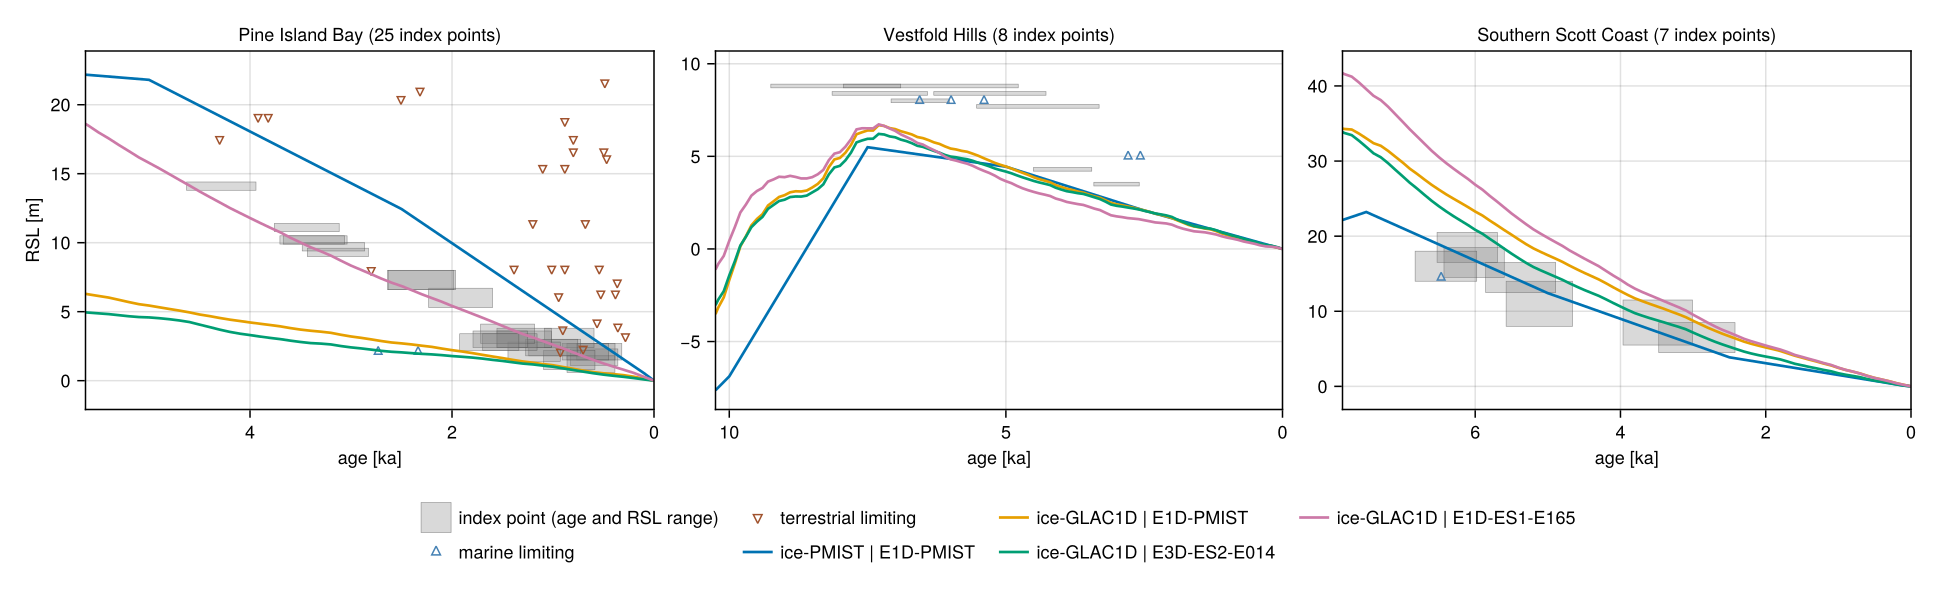
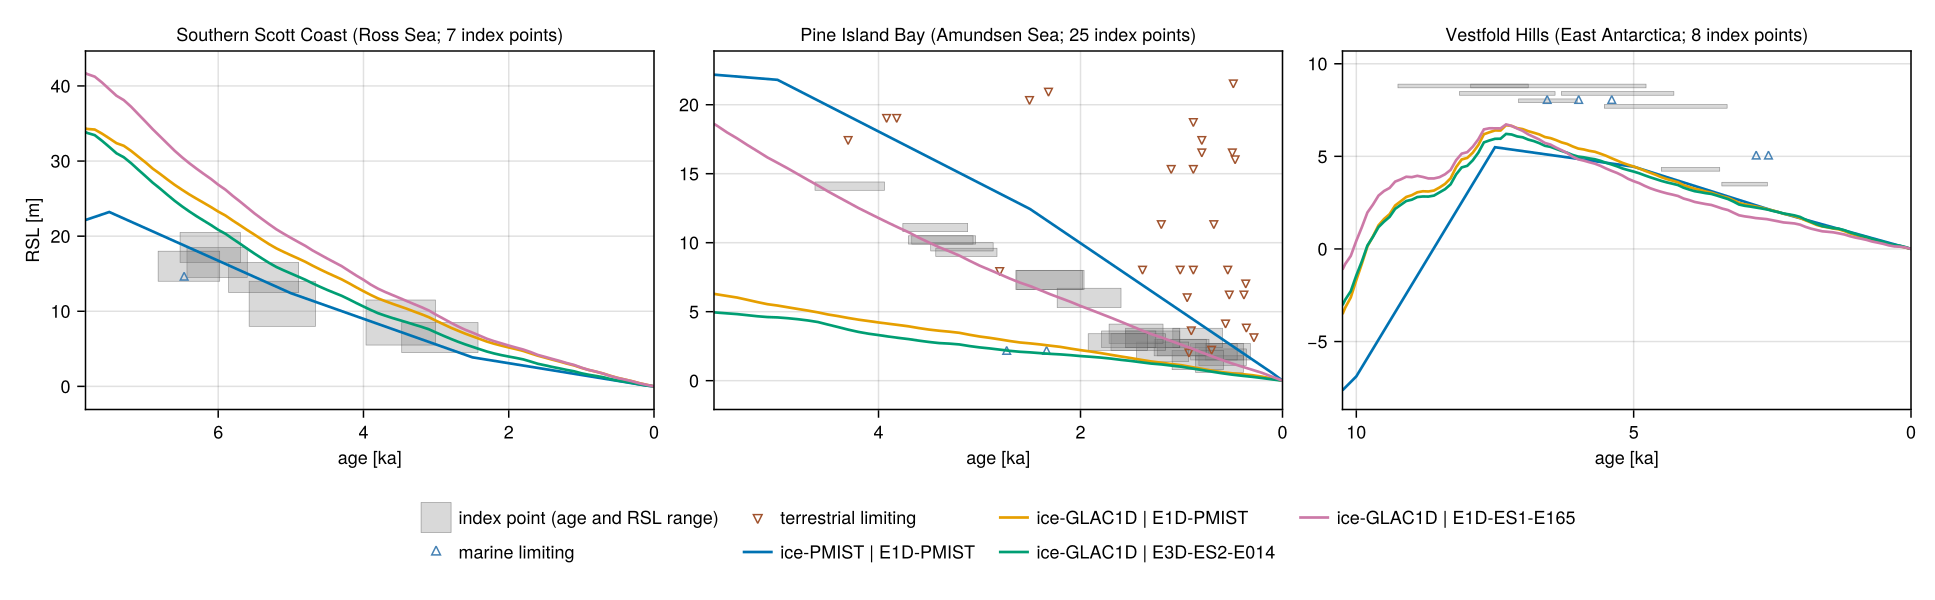
Maps page: RSL at key sites, the matched site names and substitutes in the captions

diff --git a/docs/science/maps.md b/docs/science/maps.md
@@ -107,26 +107,38 @@ least under PaleoMIST's ice. Most points are on the Great Barrier Reef and in So
 
 ## RSL at sites
 
-Per group the three sites with the most index points: each index point as a box of its age and RSL range, the limiting
-points as open triangles (marine, RSL above: up; terrestrial, RSL below: down), the four simulations as lines. The
-PaleoMIST run has records every 2.5 kyr, the GLAC-1D runs every 100 yr.
+Per group three key sites (four in the far field): the ice centre, the margin, and the forebulge or the far field. Each
+index point is a box of its age and RSL range, the limiting points open triangles (marine, RSL above: up; terrestrial,
+RSL below: down), the four simulations lines. The PaleoMIST run has records every 2.5 kyr, the GLAC-1D runs every 100
+yr. Where GAPSLIP 2.1 has no site at the place asked for, or fewer than about 8 index points, the nearest one stands in
+(the site table `KEY_SITES` of the script).
 
-![Laurentide: Cumberland, Rimouski, Southern Maine.](figures/maps/sites-laurentide.png)
+![Laurentide: Umiujaq (eastern Hudson Bay; Churchill has 6 index points, all younger than 3.2 ka), Rimouski (St.
+Lawrence), Outer Delaware (the forebulge). PaleoMIST's ice lies tens of m above the index points at Rimouski from 12 to
+7 ka. At Outer Delaware the two runs on Gowan's Earth lie below the index points before 2 ka, E014 and E165 through
+them.](figures/maps/sites-laurentide.png)
 
-![Greenland: Schuchert Dal, Bessel Fjord, Hall Land. GLAC-1D's ice on Gowan's Earth stays tens of m below the early
-Holocene points at all three.](figures/maps/sites-greenland.png)
+![Greenland: Kannala (Disko Bugt, west), Paamiut (south-west; Nuuk has no site of its own, Kapisillit in its fjord one
+index point), Schuchert Dal (Scoresby Sund, east). At Kannala and Paamiut the two runs on Gowan's Earth lie tens of m
+below the early Holocene index points; E165 is the closest at both.](figures/maps/sites-greenland.png)
 
-![Fennoscandia: Rotterdam, Norderney, Bremerhaven, the best-sampled sites of the group, all on the North Sea coast. The
-three GLAC-1D runs lie above the index points before about 3 ka, PaleoMIST's run below them at
-Rotterdam.](figures/maps/sites-fennoscandia.png)
+![Fennoscandia: Ångermanland (the high coast of the Gulf of Bothnia), Blekinge (the margin; the Oslo fjord has no
+GAPSLIP site, the nearest, Bohuslän, 5 index points), Rotterdam (the forebulge). At Ångermanland the GLAC-1D runs follow
+the index points and PaleoMIST's run lies below those older than 9 ka. At Blekinge E165 is closest; at Rotterdam the GLAC-1D
+runs lie above the index points and PaleoMIST's run below them.](figures/maps/sites-fennoscandia.png)
 
-![Barents: Proliv Markama, Dvina Gulf, Zemlya Georga. E014 stays near 10 m at Proliv Markama and Zemlya Georga where the
-index points reach 20-45 m at 6-10 ka.](figures/maps/sites-barents.png)
+![Barents: Proliv Markama (Franz Josef Land), Severny Island North (Novaya Zemlya), Dvina Gulf (the White Sea); GAPSLIP
+2.1 has no Svalbard site. At Proliv Markama E014 stays near 10 m where the index points reach 20-35 m at 6-11 ka, and
+E165 lies above those older than 7 ka.](figures/maps/sites-barents.png)
 
-![Antarctica: Pine Island Bay, Vestfold Hills, Southern Scott Coast.](figures/maps/sites-antarctica.png)
+![Antarctica: Southern Scott Coast (Ross Sea, 7 index points), Pine Island Bay (Amundsen Sea; the Antarctic Peninsula has
+one index point, at King George Island), Vestfold Hills (East Antarctica, 8 index points). At Pine Island Bay the
+GLAC-1D runs on Gowan's Earth and E014 stay below the index points older than 2 ka, E165 follows them; at the Vestfold
+Hills every run lies below the index points of 6-8 ka.](figures/maps/sites-antarctica.png)
 
-![Far field: Townsville, Cairns, Hydrographers Passage (the Great Barrier Reef). Before 15 ka the GLAC-1D runs lie above
-most index points at Cairns and Hydrographers Passage.](figures/maps/sites-far-field.png)
+![Far field: Barbados, the Sunda Shelf, the Bonaparte Gulf, Tahiti. At Barbados, the Sunda Shelf and the Bonaparte Gulf
+every run lies above most index points from 20 to 12 ka, the GLAC-1D runs more than PaleoMIST's near 20
+ka.](figures/maps/sites-far-field.png)
 
 ## Reproducing the figures
 
